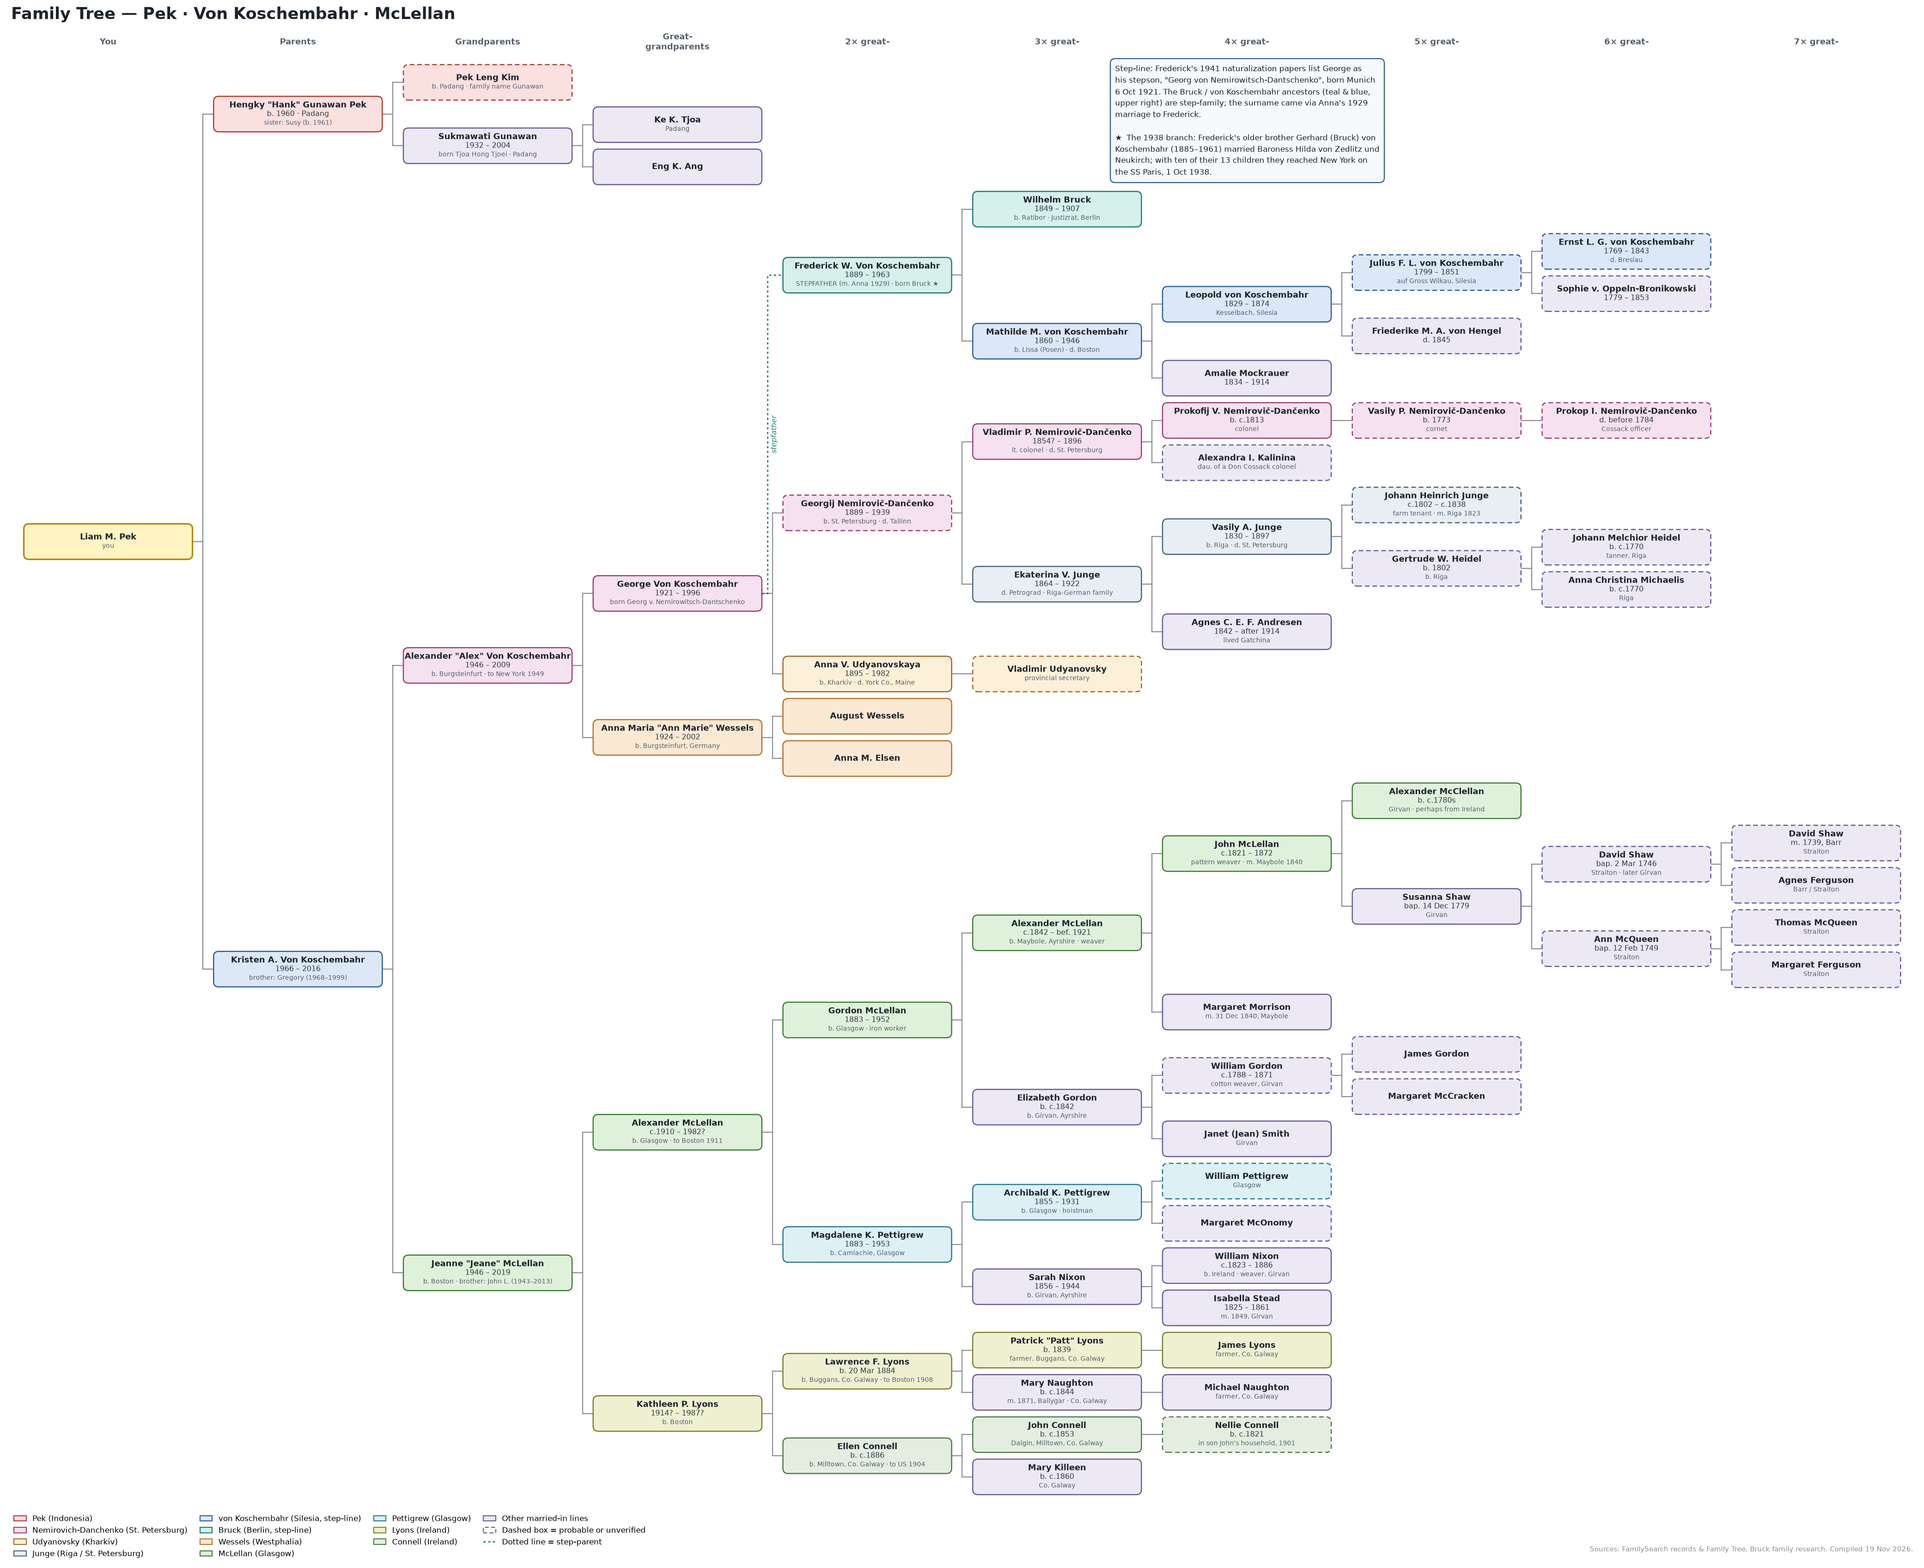
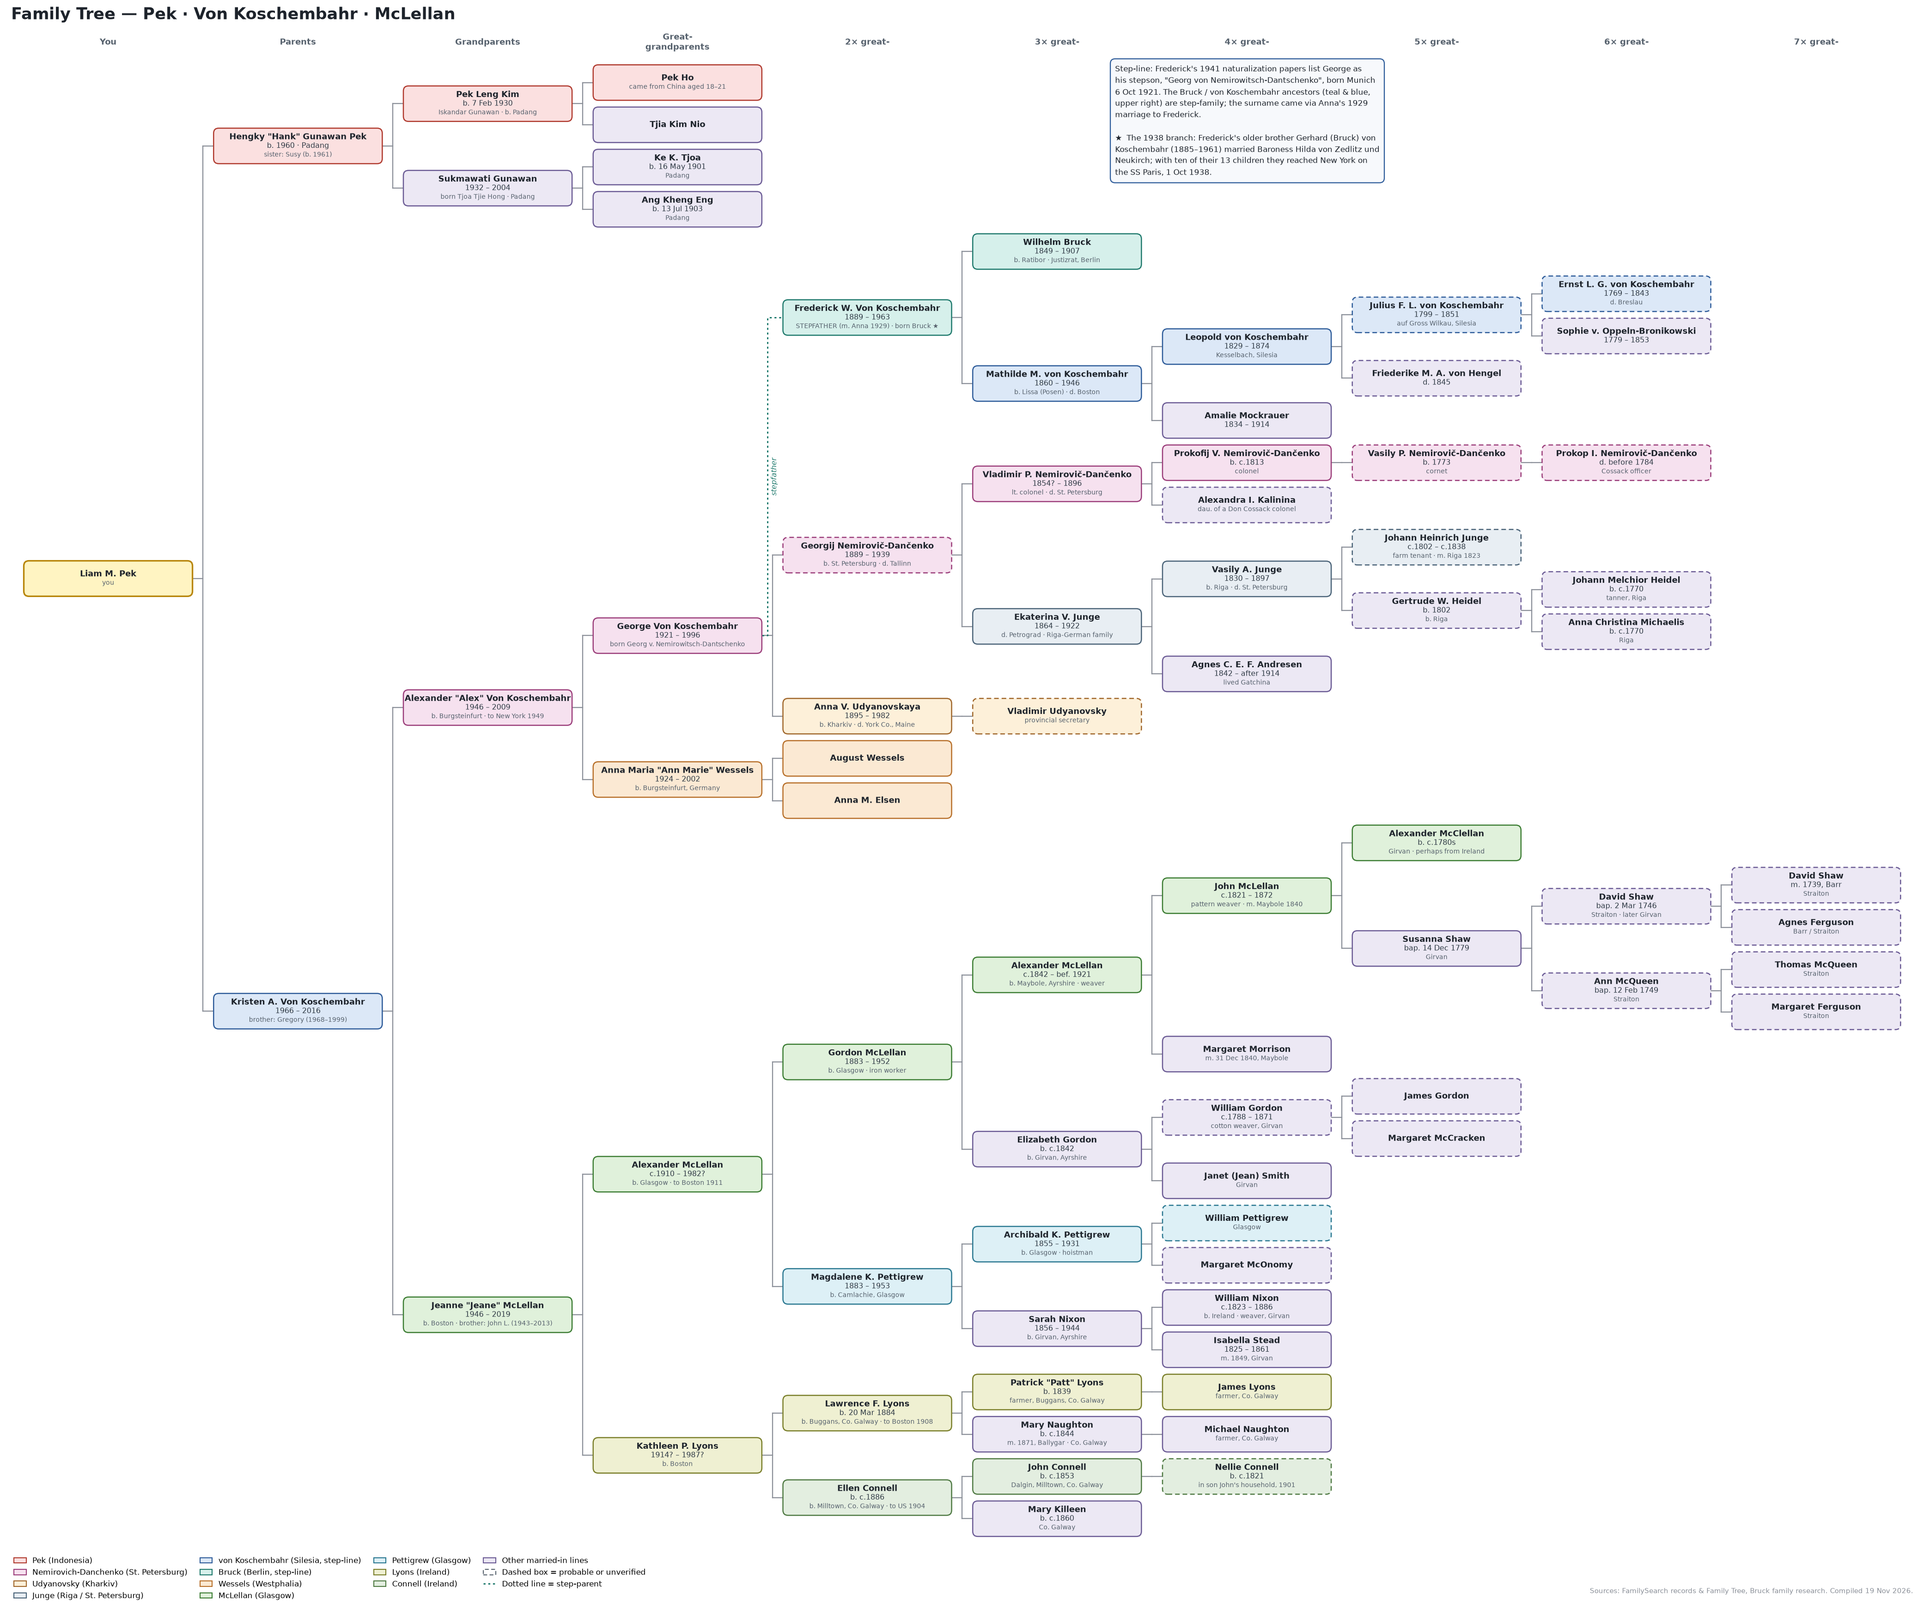
family history: Pek line — Pek Ho and Tjia Kim Nio, Iskandar = Pek Leng Kim
- Iskandar Gunawan confirmed as Pek Leng Kim (b. 7 Feb 1930, Padang)
- Add his parents Pek Ho (migrated from China aged 18 or 21) and Tjia Kim Nio
- Sukmawati's Chinese name Tjoa Tjie Hong; father Tjoa b. 16 May 1901;
  mother Ang Kheng Eng b. 13 Jul 1903
- Note online searches (FamilySearch Indonesia indexes, Delpher) and next steps
- Archive republished (v9)

diff --git a/vault/Research/family-archive/family-archive.html b/vault/Research/family-archive/family-archive.html
@@ -208,12 +208,14 @@ const P = {
  liam:{n:"Liam M. Pek",line:"root",st:"living",gen:"You",bio:["The person this archive is built around. Liam's father's family is Chinese-Indonesian, from Padang in West Sumatra. His mother's family brings together Russian, Baltic-German, German, Scottish and Irish lines that met in and around Boston."]},
  hengky:{n:"Hengky \"Hank\" Gunawan Pek",alt:"Chinese name Pek Seng Ki",line:"pek",st:"living",b:["6 Mar 1960","padang"],res:"Moved to Jakarta in the late 1960s; later Massachusetts",
    bio:["Born in Padang, West Sumatra, into a Chinese-Indonesian family whose Hokkien surname is Pek (白, Bai in Mandarin). In the 1960s, when Chinese Indonesians were pressed to take Indonesian-sounding names, the family adopted the surname Gunawan. The family moved from Padang to Jakarta in the late 1960s. His younger sister, Susy I. Gunawan (born 12 May 1961), also settled in Quincy, Massachusetts.","He later married Kristen A. Von Koschembahr. Jeanne McLellan Bundtzen's 2019 obituary lists him as her son-in-law, \"Hank Hengky Gunawan Pek\"."]},
- lengkim:{n:"Pek Leng Kim",alt:"Gunawan",line:"pek",st:"family",b:["","padang"],
-   bio:["Hengky's father, known from family memory as Pek Leng Kim. Born in Padang; the family took the Indonesian surname Gunawan and moved to Jakarta in the late 1960s.","No record under the name Pek Leng Kim has been found. In the US he may be the Iskandar Gunawan, born 7 Feb 1930, whom public records place in Quincy, Massachusetts, from 2002 to 2009, at the same address as Sukmawati and Hengky Gunawan. No death record for Iskandar was found. This needs confirming with Hengky."]},
- pekmom:{n:"Sukmawati Gunawan",alt:"born Tjoa Hong Tjoei",line:"other",st:"record",b:["8 Jan 1932","padang"],d:["18 Jul 2004","Norfolk County, Massachusetts"],res:"Quincy, Massachusetts",
-   bio:["Hengky's mother, born Tjoa Hong Tjoei on 8 Jan 1932 in Padang; the family confirms her Chinese name, which also appears in the Social Security claims index. Her Social Security record names her parents as Ke K. Tjoa and Eng K. Ang. Her birth should be in Padang's 1927–1940 Chinese birth register, which FamilySearch holds on restricted film 1474366.","She lived in Quincy, Massachusetts, where public records list her at the same address as Iskandar and Hengky Gunawan, and died in Norfolk County in July 2004. No obituary has been found."]},
- tjoaF:{n:"Ke K. Tjoa",line:"other",st:"record",b:["","padang"],bio:["Sukmawati's father: named as a parent in her Social Security record, and the source of her family name Tjoa. Padang had a large Tjoa community; his full name should appear on her 1932 birth registration."]},
- angM:{n:"Eng K. Ang",line:"other",st:"record",bio:["Named as a parent in Sukmawati Gunawan's Social Security record; probably her mother. The Ang family is recorded in Padang, but no link to them is established."]},
+ lengkim:{n:"Pek Leng Kim",alt:"Iskandar Gunawan",line:"pek",st:"record",b:["7 Feb 1930","padang"],res:"Padang; Jakarta from the late 1960s; later Quincy, Massachusetts",
+   bio:["Hengky's father. His Chinese name was Pek Leng Kim and his Indonesian name Iskandar Gunawan, both confirmed by the family. He was born in Padang on 7 Feb 1930, the son of Pek Ho, who had come from China, and Tjia Kim Nio. The family took the Indonesian surname Gunawan and moved to Jakarta in the late 1960s.","In the US, public records place Iskandar Gunawan in Quincy, Massachusetts, from 1993 to 2009, at the same address as his wife Sukmawati. Their children Hengky and Susy lived nearby. No death record for him has been found. His birth should be in Padang's 1927–1940 Chinese birth register (restricted FamilySearch film 1474366)."]},
+ pekmom:{n:"Sukmawati Gunawan",alt:"born Tjoa Tjie Hong",line:"other",st:"record",b:["8 Jan 1932","padang"],d:["18 Jul 2004","Norfolk County, Massachusetts"],res:"Quincy, Massachusetts",
+   bio:["Hengky's mother, born on 8 Jan 1932 in Padang. Her Chinese name was Tjoa Tjie Hong; a Social Security claims index gives it as \"Hong Tjoei Tjoa\". Her Social Security record names her parents as Ke K. Tjoa, born 16 May 1901, and \"Eng K. Ang\", whom the family names Ang Kheng Eng. Her birth should be in Padang's 1927–1940 Chinese birth register, which FamilySearch holds on restricted film 1474366.","She lived in Quincy, Massachusetts, where public records list her at the same address as Iskandar and Hengky Gunawan, and died in Norfolk County in July 2004. No obituary has been found."]},
+ tjoaF:{n:"Ke K. Tjoa",line:"other",st:"record",b:["16 May 1901","padang"],bio:["Sukmawati's father, born on 16 May 1901 according to the family. Her Social Security record names him as \"Ke K Tjoa\"; his full Chinese name isn't known yet. Padang had a large Tjoa community, and his name should appear on Sukmawati's 1932 birth registration."]},
+ angM:{n:"Ang Kheng Eng",alt:"Eng K. Ang",line:"other",st:"record",b:["13 Jul 1903","padang"],bio:["Sukmawati's mother, confirmed by the family. Her Social Security record gives her name in reversed order, as \"Eng K Ang\".","She was born on 13 Jul 1903, according to the family."]},
+ pekHo:{n:"Pek Ho",line:"pek",st:"family",res:"Came from China to the Dutch East Indies",bio:["Iskandar's father and Hengky's grandfather. He migrated from China when he was 18 or 21. The Hokkien surname Pek (白) suggests the family came from southern Fujian, as most Chinese families in Padang did.","No record of him has been found online yet. A family book held by Liam's aunt may give his home village and dates."]},
+ tjiaKN:{n:"Tjia Kim Nio",line:"other",st:"family",bio:["Iskandar's mother, the wife of Pek Ho. Several women named Tjia Kim Nio appear in Indonesian civil records, but none is linked to this family yet."]},
  kristen:{n:"Kristen A. Von Koschembahr",line:"kosch",st:"record",b:["7 Dec 1966",null],d:["16 Jul 2016",null],bur:"Saint Joseph Cemetery, West Roxbury, Boston",
    bio:["Liam's mother. Daughter of Alexander \"Alex\" Von Koschembahr and Jeanne McLellan, who married in Massachusetts in 1966 and divorced in 1977. Her younger brother Gregory (1968–1999) died at 31.","Public records place her in Allston, Boston, in 2000. She died in 2016 and is buried at Saint Joseph Cemetery in West Roxbury, alongside her father, brother and mother."]},
  alex:{n:"Alexander \"Alex\" Von Koschembahr",alt:"registered as Dantschenko in 1948",line:"nemir",st:"record",b:["23 Jun 1946","burg"],d:["24 Jun 2009","St Johns County, Florida"],bur:"Saint Joseph Cemetery, West Roxbury",
@@ -308,6 +310,7 @@ const P = {
 };
 
 const D = {
+ fam_pek2:{t:"Family information (Pek and Tjoa lines)",r:"From Liam, 19 Nov 2026",s:"Iskandar Gunawan is Pek Leng Kim, Liam's grandfather. His parents were Pek Ho, who migrated from China aged 18 or 21, and Tjia Kim Nio. Sukmawati's Chinese name is Tjoa Tjie Hong; her father Tjoa was born on 16 May 1901, and her mother was Ang Kheng Eng. A family book is held by Liam's aunt."},
  fam_pek:{t:"Family information",r:"From Liam, November 2026",s:"Hengky's Chinese name is Pek Seng Ki; his mother's was Tjoa Hong Tjoei (Sukmawati Gunawan). His father was Pek Leng Kim; the family took the Indonesian surname Gunawan, came from Padang and moved to Jakarta in the late 1960s."},
  numident_suk:{t:"Social Security record of Sukmawati Gunawan",r:"US Social Security NUMIDENT",u:FS("6KM3-29Q1"),s:"Born 8 Jan 1932, Padang, Indonesia; died 18 Jul 2004; parents Eng K. Ang and Ke K. Tjoa."},
  ssdi_suk:{t:"Social Security Death Index, Sukmawati Gunawan",r:"SSDI",u:FS("J5F2-GYH"),s:"Died 18 Jul 2004, Norfolk County, Massachusetts."},
@@ -405,10 +408,12 @@ const D = {
 const L = [
  ["liam","hengky","bio","record",["obit_jeanne","fam_pek"]],
  ["liam","kristen","bio","record",["obit_jeanne"]],
- ["hengky","lengkim","bio","family",["fam_pek"]],
+ ["hengky","lengkim","bio","record",["fam_pek","fam_pek2","pubrec_isk"]],
+ ["lengkim","pekHo","bio","family",["fam_pek2"]],
+ ["lengkim","tjiaKN","bio","family",["fam_pek2"]],
  ["hengky","pekmom","bio","record",["fam_pek","numident_suk","pubrec_hengky","pubrec_isk","pubrec_susy"]],
- ["pekmom","tjoaF","bio","record",["numident_suk"]],
- ["pekmom","angM","bio","record",["numident_suk"]],
+ ["pekmom","tjoaF","bio","record",["numident_suk","fam_pek2"]],
+ ["pekmom","angM","bio","record",["numident_suk","fam_pek2"]],
  ["kristen","alex","bio","record",["obit_greg","ct_divorce"]],
  ["kristen","jeanne","bio","record",["obit_jeanne","obit_bundtzen","obit_greg"]],
  ["alex","george","bio","record",["census50_woburn","aro_cover","aro_pciro"]],

diff --git a/vault/Research/family-tree-render.py b/vault/Research/family-tree-render.py
@@ -11,10 +11,12 @@ P = {
     "liam":      ("Liam M. Pek", "", "you", "root", False),
     "hengky":    ('Hengky "Hank" Gunawan Pek', "b. 1960 · Padang", "sister: Susy (b. 1961)", "pek", False),
     "kristen":   ("Kristen A. Von Koschembahr", "1966 – 2016", "brother: Gregory (1968–1999)", "kosch", False),
-    "lengkim":   ("Pek Leng Kim", "", "b. Padang · family name Gunawan", "pek", True),
-    "pekmom":    ("Sukmawati Gunawan", "1932 – 2004", "born Tjoa Hong Tjoei · Padang", "other", False),
-    "tjoaF":     ("Ke K. Tjoa", "", "Padang", "other", False),
-    "angM":      ("Eng K. Ang", "", "", "other", False),
+    "lengkim":   ("Pek Leng Kim", "b. 7 Feb 1930", "Iskandar Gunawan · b. Padang", "pek", False),
+    "pekho":     ("Pek Ho", "", "came from China aged 18–21", "pek", False),
+    "tjiakn":    ("Tjia Kim Nio", "", "", "other", False),
+    "pekmom":    ("Sukmawati Gunawan", "1932 – 2004", "born Tjoa Tjie Hong · Padang", "other", False),
+    "tjoaF":     ("Ke K. Tjoa", "b. 16 May 1901", "Padang", "other", False),
+    "angM":      ("Ang Kheng Eng", "b. 13 Jul 1903", "Padang", "other", False),
     "alex":      ('Alexander "Alex" Von Koschembahr', "1946 – 2009", "b. Burgsteinfurt · to New York 1949", "nemir", False),
     "jeanne":    ('Jeanne "Jeane" McLellan', "1946 – 2019", "b. Boston · brother: John L. (1943–2013)", "mcl", False),
     "george":    ("George Von Koschembahr", "1921 – 1996", "born Georg v. Nemirowitsch-Dantschenko", "nemir", False),
@@ -85,6 +87,7 @@ P = {
 PARENTS = {
     "liam": ["hengky", "kristen"],
     "hengky": ["lengkim", "pekmom"],
+    "lengkim": ["pekho", "tjiakn"],
     "pekmom": ["tjoaF", "angM"],
     "kristen": ["alex", "jeanne"],
     "alex": ["george", "annamaria"],

diff --git a/vault/Research/family-tree.md b/vault/Research/family-tree.md
@@ -21,10 +21,12 @@ Research started 2026-11-18 using FamilySearch. The importable version is [[fami
 ```
 Liam M. Pek
 ├── Father: Hengky "Hank" Gunawan Pek (b. 1960, Padang, West Sumatra); the family moved to Jakarta in the late 1960s; sister Susy I. Gunawan (b. 1961)
-│   ├── Father: Pek Leng Kim (born Padang; family took the Indonesian surname Gunawan); possibly the Iskandar Gunawan (b. 7 Feb 1930) in Quincy, MA public records
-│   └── Mother: Sukmawati Gunawan, born Tjoa Hong Tjoei (8 Jan 1932, Padang – 18 Jul 2004, Norfolk Co., MA); Chinese name confirmed by Liam
-│       ├── Father: Ke K. Tjoa (named in her Social Security record)
-│       └── Mother: Eng K. Ang (named in her Social Security record)
+│   ├── Father: Pek Leng Kim, Indonesian name Iskandar Gunawan (7 Feb 1930, Padang); later of Quincy, MA
+│   │   ├── Father: Pek Ho, who migrated from China aged 18 or 21
+│   │   └── Mother: Tjia Kim Nio
+│   └── Mother: Sukmawati Gunawan, born Tjoa Tjie Hong (8 Jan 1932, Padang – 18 Jul 2004, Norfolk Co., MA)
+│       ├── Father: Ke K. Tjoa (b. 16 May 1901), named in her Social Security record
+│       └── Mother: Ang Kheng Eng ("Eng K. Ang" in her Social Security record); b. 13 Jul 1903
 └── Mother: Kristen A. Von Koschembahr (7 Dec 1966 – 16 Jul 2016)
     ├── Father: Alexander "Alex" Von Koschembahr (23 Jun 1946, Germany – 24 Jun 2009, St. Johns Co., FL)
     │   ├── Father: George Von Koschembahr, born Georg von Nemirowitsch-Dantschenko (6 Oct 1921, Munich – 15 Sep 1996)
@@ -270,7 +272,14 @@ The von Koschembahr line itself is old Silesian nobility, documented from about 
    - An **Iskandar Gunawan**, born **7 Feb 1930**, lived in Quincy, MA in 2002–09.
    - Property and people-search sites list Sukmawati, Iskandar and Hengky Gunawan at the same address: 45 Bradford St, Quincy.
    - No obituary or death record was found for Iskandar.
-   - **Iskandar vs. Dad (checked 2026-11-19):** Liam remembers "Iskandar Gunawan" as a name used for his dad. The records point to a separate, older person, but don't rule it out.
+   - **Family information from Liam (19 Nov 2026):**
+     - Iskandar Gunawan is Pek Leng Kim, Liam's grandfather. His parents were Pek Ho, who migrated from China aged 18 or 21, and Tjia Kim Nio.
+     - Sukmawati's Chinese name is Tjoa Tjie Hong. Earlier, and in a Social Security claims index, it was given as Tjoa Hong Tjoei.
+     - Her father Tjoa was born on 16 May 1901, and her mother was Ang Kheng Eng.
+     - Ang Kheng Eng was born on 13 Jul 1903.
+     - Liam's aunt has a family book and will send images.
+     - **Searched online (19 Nov 2026), nothing found:** FamilySearch's Indonesian civil indexes have no Pek–Tjia couple, no Tjoa–Ang marriage, no 1901 Tjoa birth in Padang, and no Pek Ho. Their Padang coverage is patchy, mostly 1911–1926, and the 1927–1940 Chinese birth register that would hold Iskandar (1930) and Sukmawati (1932) is restricted film 1474366. Delpher's colonial newspapers turned up only an unrelated "Sin Pek Ho" (1914).
+   - **Iskandar vs. Dad (checked 2026-11-19; resolved: Iskandar was the grandfather):** Liam remembers "Iskandar Gunawan" as a name used for his dad. The records point to a separate, older person, but don't rule it out.
      - Iskandar's record (KL2Y-Z7L, alias "Iskawiar") has its own birth date, 7 Feb 1930, and its own Quincy residence history: 02169 from Jun 1993, 02171 in Mar 1994, and 02169 through Jan 2009.
      - Dad's record (KL2Y-ZW3) keeps his 6 Mar 1960 birth date. It lists Quincy 02171 (1992–2001), a Quincy 02269 PO box (1993–98) and Franklin (1997–2009).
      - These compiled records are built around a Social Security number, so a separate birth date usually means a separate SSN.
@@ -278,7 +287,11 @@ The von Koschembahr line itself is old Silesian nobility, documented from about 
      - A 1930 birth fits a husband for Sukmawati (b. 1932) and a father for a son born in 1960.
      - Also at Quincy 02169: **Susy I. Gunawan**, b. 12 May 1961 (KL2Y-Z7H), from 1990 to 2008. **Liam confirms she is his aunt, Dad's sister.**
    - **Confirmed by Liam:** Sukmawati's Chinese name was Tjoa Hong Tjoei, so she is Dad's mother.
-   - Still to confirm, best asked of Dad: whether Iskandar Gunawan was Pek Leng Kim, and whether Dad ever used the name himself.
+   - **Next:**
+     - The family book. Look for Pek Ho's home village in China, his Chinese characters, and dates.
+     - Chinese characters for each name.
+     - Tjoa's full given name (the "Ke K.").
+     - Iskandar's date of death, if he has died.
    - **Tjoa–Ang family in Padang:**
      - No indexed Padang record matches "Ke K. Tjoa" and "Eng K. Ang". Other Tjoa–Ang couples are indexed, but none fits:
        - Koan Seng Tjoa and Loan Giok Nio Ang (daughter b. c.1914).
